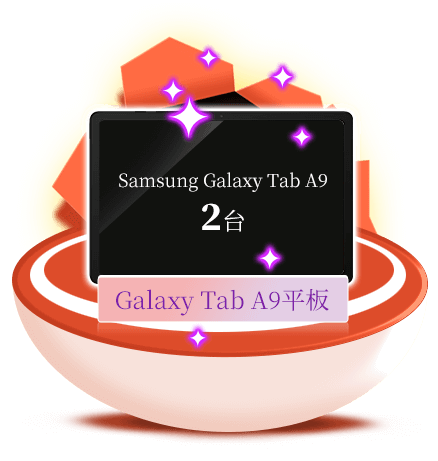
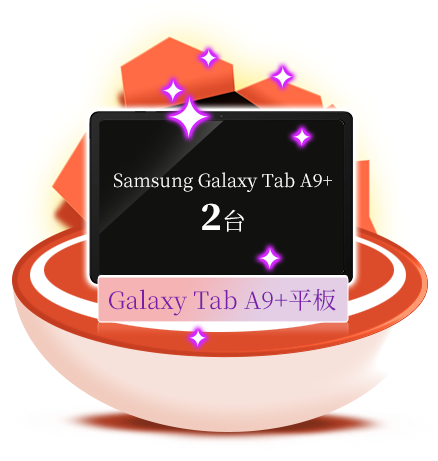
更新 Samsung Tab A9+ 平板

Changed region(s): [[0.2671, 0.3644, 0.7717, 0.4252], [0.2374, 0.6074, 0.7717, 0.6985]]

diff --git a/index.html b/index.html
@@ -202,13 +202,13 @@
                     <li>
                         <figure>
                             <img src="assets/images/photos-03.png?v=2" alt="Galaxy Tab A9平板：得獎者照片">
-                            <figcaption>Galaxy Tab A9平板</figcaption>
+                            <figcaption>Galaxy Tab A9+平板</figcaption>
                         </figure>
                     </li>
                     <li>
                         <figure>
                             <img src="assets/images/photos-04.png?v=2" alt="Galaxy Tab A9平板：得獎者照片">
-                            <figcaption>Galaxy Tab A9平板</figcaption>
+                            <figcaption>Galaxy Tab A9+平板</figcaption>
                         </figure>
                     </li>
                 </ul>
@@ -226,7 +226,7 @@
             <ul class="event-note-list">
                 <li>限定儲值<em>通用卡指定面額500</em>點數才可參與本次活動獲得獎品，其他面額點數、不同儲值方式皆無法參與。</li>
                 <li>活動開啟 2023/12/27(三)16:00~2024/2/14(三)23:59 期間內購買才算是參與活動中，提前購買、太晚購買將無法參與。</li>
-                <li>抽中「ROG電競掌機」、「Samsung智慧聯網螢幕M7」、「Samsung Galaxy Tab A9平板」之獎項中獎人，應於各獎項公佈日起三個月內，主動與雷爵網絡洽繫領獎事宜，凡逾領獎期限(獎項公佈日起三個月內)，或未完成領獎程序，或不接受開立(免)扣繳憑單者，均視同自動放棄得獎權力。<mark>※請透過<a href="https://member.lager.com.tw/index/login?rm=support&rc=player_report_list" target="_blank">客服中心-遊戲問題回報</a>詢問。</mark></li>
+                <li>抽中「ROG電競掌機」、「Samsung智慧聯網螢幕M7」、「Samsung Galaxy Tab A9+平板」之獎項中獎人，應於各獎項公佈日起三個月內，主動與雷爵網絡洽繫領獎事宜，凡逾領獎期限(獎項公佈日起三個月內)，或未完成領獎程序，或不接受開立(免)扣繳憑單者，均視同自動放棄得獎權力。<mark>※請透過<a href="https://member.lager.com.tw/index/login?rm=support&rc=player_report_list" target="_blank">客服中心-遊戲問題回報</a>詢問。</mark></li>
                 <li>本活動實體獎勵，限『得獎者本人』親至本公司進行領取。領取完畢後，需拍照，官方後續會將此照片進行處理後將於本活動頁上得獎區中更新。<br><mark>※如中獎者為海外玩家，因疫情問題無法親領，可請台灣地區友人協助代領，詳細相關規定與方式，請至<a href="https://member.lager.com.tw/index/login?rm=support&rc=player_report_list" target="_blank">客服中心-遊戲問題回報</a>功能詢問。</mark></li>
                 <li>本活動獎項以實物為準，中獎人不得要求更換、轉讓他人或折換現金，除獎項外其他衍生之相關費用由中獎者自行負擔。</li>
                 <li>依中華民國稅法規定，獎項金額超過新台幣1,000，得獎人須依規定繳交相關單據，並提供身分證件以供核對身份；獎項金額超過新台幣20,000，國內玩家需支付10%稅額(國外玩家20%)給予雷爵網絡以便代扣稅金，扣繳義務人為活動得獎人。價格依照原公告價格計算。</li>

diff --git a/README.md b/README.md
@@ -2,3 +2,4 @@
 
 - 專案上Github 2023/11/20
 - 專案完成交給PM 2023/11/22
+- 更新 Samsung Tab A9+ 平板
